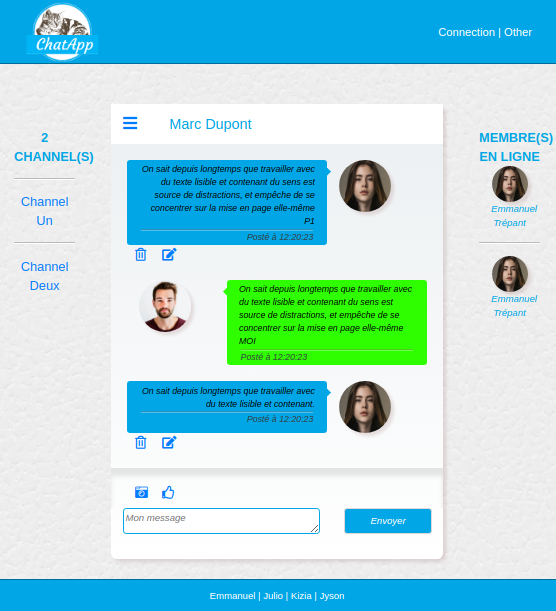
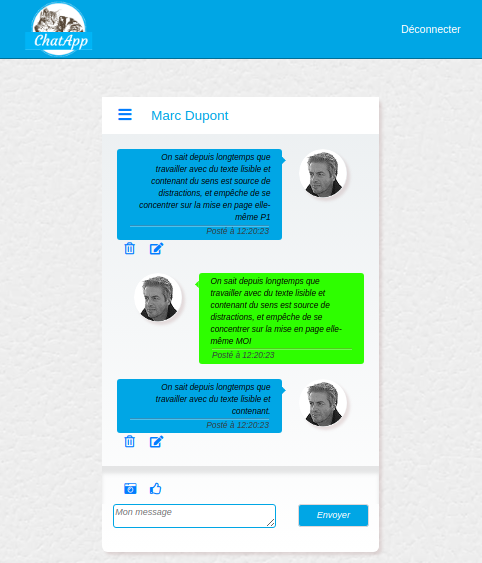
maj images

diff --git a/public/tmp/ChatKit V02/chat-3col.html b/public/tmp/ChatKit V02/chat-3col.html
@@ -34,7 +34,7 @@
             <div class="col-10">
                 <nav>
                     <ul>
-                        <li><a href="">Connection</a> | <a href="">Other</a></li>
+                        <li><a href="">Déconnecter</a></li>
                     </ul>
                 </nav>
             </div>
@@ -47,7 +47,7 @@
             <!-- Container principal-->
 
             <div class="row">
-                <div class="col-12 col-sm-2 col-md-2 rooms"><strong>2 CHANNEL(S)</strong>
+                <div class="col-12 col-sm-2 col-md-2 rooms"><strong>CHANNEL(S)</strong>
                     <hr><a href="#">Channel Un</a>
                     <hr><a href="#">Channel Deux</a>
                 </div>
@@ -129,7 +129,7 @@
                     </div>
                     <!-- Fin ChatBox-->
                 </div>
-                <div class="col-12 col-sm-2 col-md-2 team"><strong>MEMBRE(S)<br />EN LIGNE</strong>
+                <div class="col-12 col-sm-2 col-md-2 team"><strong>EN LIGNE</strong>
 
                     <div class="row">
                         <div class="col-12 member"><img class="fit-pictureTeam" src="assets/img/lui.png" alt="Membre">

diff --git a/public/tmp/ChatKit V02/chat.html b/public/tmp/ChatKit V02/chat.html
@@ -34,7 +34,7 @@
             <div class="col-10">
                 <nav>
                     <ul>
-                        <li><a href="">Connection</a> | <a href="">Other</a></li>
+                        <li><a href="">Déconnecter</a></li>
                     </ul>
                 </nav>
             </div>
